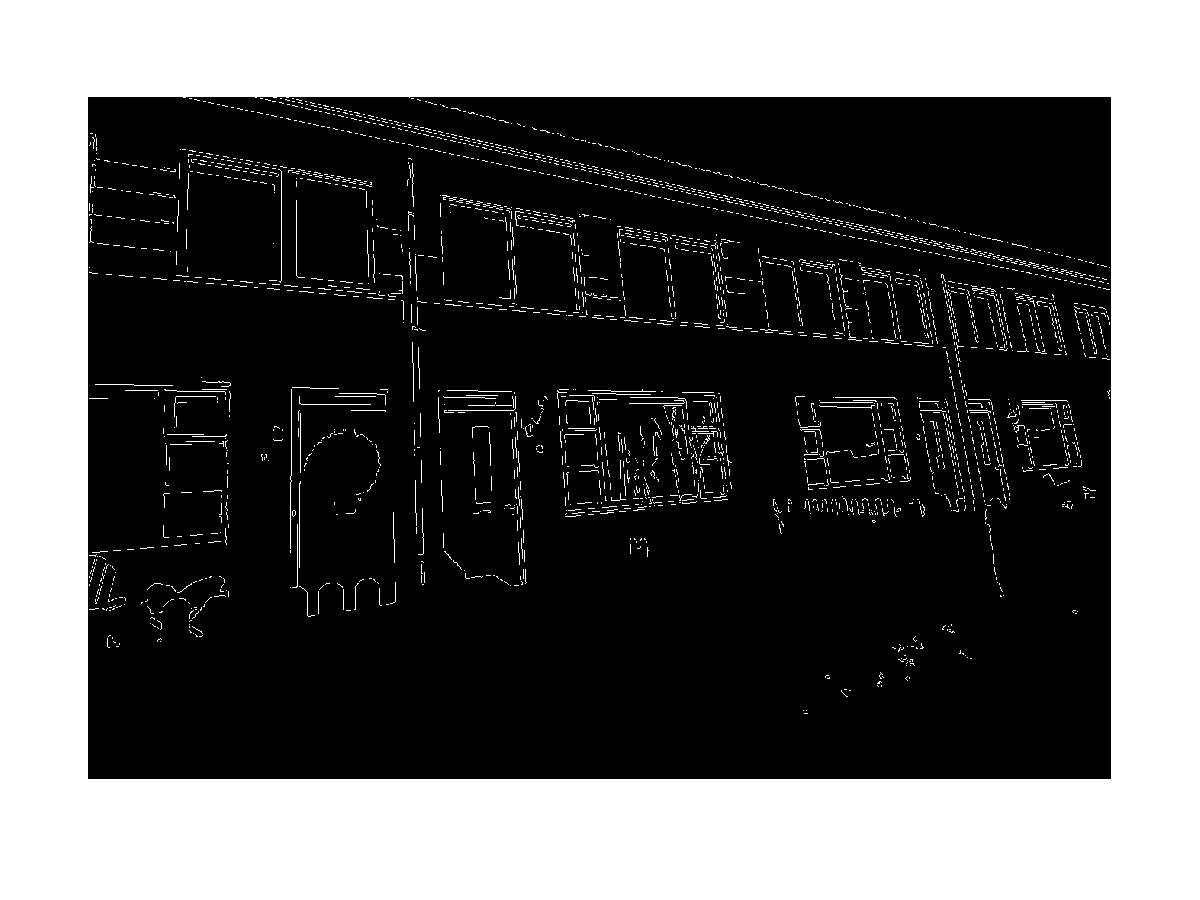
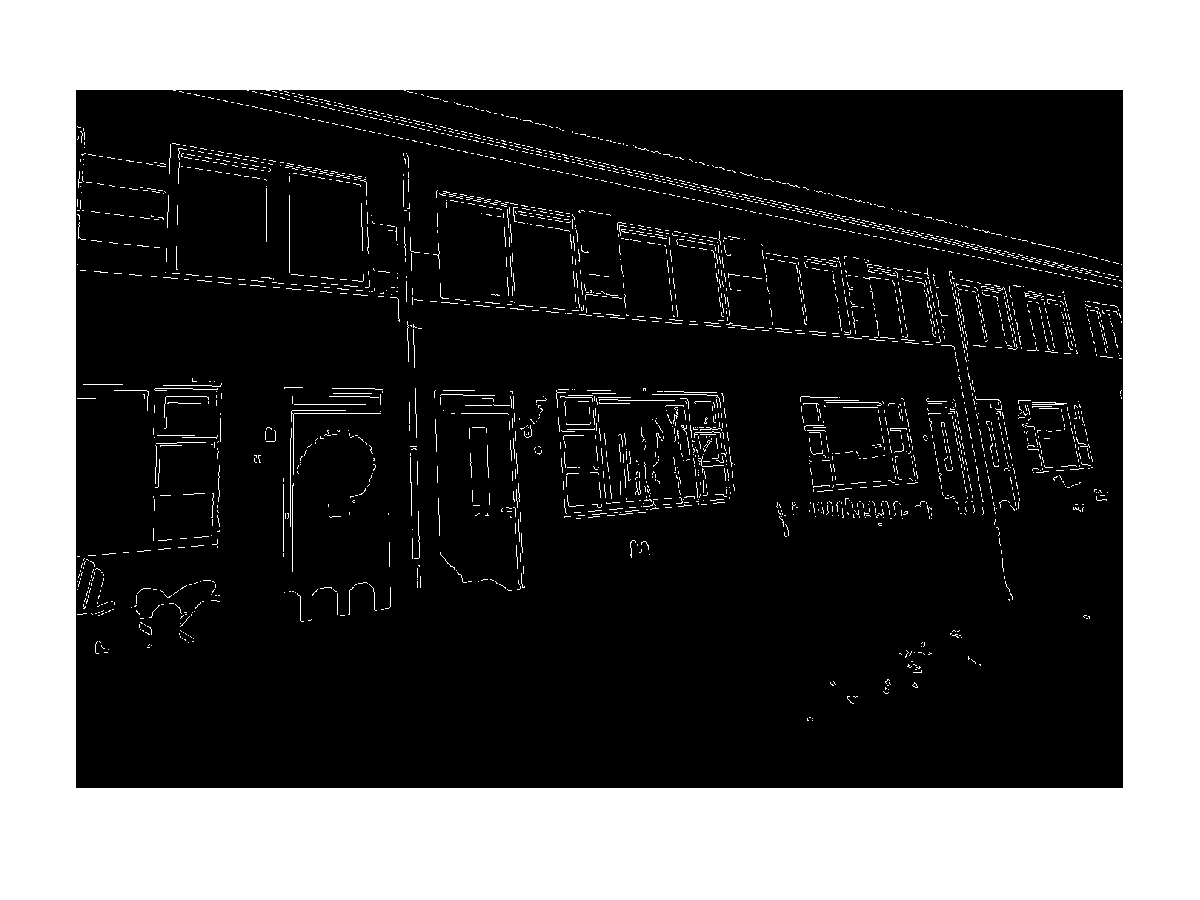
a

diff --git a/doorWindow/houghRect.m b/doorWindow/houghRect.m
@@ -30,16 +30,16 @@
 
 close all;
 tic;
-%imNr = 5447; file = sprintf('../dataset/FloriandeSet1/medium/undist__MG_%d.jpg', imNr);
-%load('XYangleFilter_floriande_5447.mat');
-%file = sprintf('../dataset/datasetSpil/datasetSpilRect/P_rect6.jpg')
-imNr = 6680; file = sprintf('../dataset/fullDatasets/aalsmeer/undist__MG_%d.jpg', imNr);
-load('XYangleFilter_aalsmeer6680.mat');
+imNr = 5435; file = sprintf('../dataset/FloriandeSet1/medium/undist__MG_%d.jpg', imNr); load('XYangleFilter_floriande_5447.mat');
+%imNr = 5447; file = sprintf('../dataset/FloriandeSet1/medium/undist__MG_%d.jpg', imNr); load('XYangleFilter_floriande_5447.mat');
+%imNR = 6; file = sprintf('../dataset/datasetSpil/datasetSpilRect/P_rect6.jpg')
+% imNr = 6680; file = sprintf('../dataset/fullDatasets/aalsmeer/undist__MG_%d.jpg', imNr); load('XYangleFilter_aalsmeer6680.mat');
 
 
 plotme							= 1;
 savePath 						= 'results/';
-fileShort 						= 'aalsmeer6680';
+%fileShort 						= 'aalsmeer6680';
+fileShort 						= 'floriande5435';
 colorModel						= 'HSV_Vchannel';
 %colorModel						= 'RGB';
 HSVmode							= true;
@@ -49,10 +49,10 @@ loadEdgeFromCache 				= false;
 %edgeDetectorParam.typePost 		= 'vertical_horizontal_Combined';
 edgeDetectorParam.typePost 		= '';
 %edgeDetectorParam.thresh		= 0.50;%0.45
-edgeDetectorParam.thresh		= 0.4;%0.45
+edgeDetectorParam.thresh		= 0.55;%0.45
 % perform different threshold test?
 edgeTest 						= 0;
-HoughParam.ThetaStretchAngle	= 20;
+HoughParam.ThetaStretchAngle	= 30;
 HoughParam.ThetaStart 			= 0;
 HoughParam.ThetaStart 			= HoughParam.ThetaStart - HoughParam.ThetaStretchAngle;
 HoughParam.ThetaEnd 			= 0;
@@ -67,7 +67,7 @@ HoughParam.fillGap 				= 10;
 
 % select smallest windowglas width from left to right
 %[Xwin,Ywin] = ginput(2); XYwin1 = [Xwin(1),Ywin(1)]; XYwin2 = [Xwin(2),Ywin(2)];norm(XYwin1,XYwin2)
-HoughParam.minLength 			= 40; 
+HoughParam.minLength 			= 45; 
 
 % todo transfer to sprintf 
 paramStr = ['src_',fileShort,'_colorModel_',colorModel,'__edgeDetectorParams_',edgeDetectorParam.type,edgeDetectorParam.typePost,'_thresh_',num2str(edgeDetectorParam.thresh),'__HoughParams_', 'thresh_',num2str(HoughParam.thresh) , '_nrPeaks_',num2str(HoughParam.nrPeaks) , '_fillGap_',num2str(HoughParam.fillGap) , '_minLength_',num2str(HoughParam.minLength),'__ThetaRange',num2str(HoughParam.ThetaStart),':',num2str(HoughParam.ThetaResolution),':',num2str(HoughParam.ThetaEnd),'.png'];
@@ -87,30 +87,16 @@ end
 h = size(imBW,1);
 
 
-%  % crop image by rectangle
-% TODO make this crop function in .m file
-%  h = size(imBW,1);
-%  w = size(imBW,2);
-%  % coords derived by rounding
-%  xCrop = [round(677.5000), round(885.5000)];
-%  yCrop = [round(169.5000), round(707.5000)];
-%  for y=1:h 
-%  	for x=1:w
-%  		% set values outside crop window to zero
-%  		if (y<yCrop(1) || y>yCrop(2)) || (x<xCrop(1) || x>xCrop(2))
-%  			imBW(y,x) = 0;
-%  		end
-%  	end
-%  end
-%  %figure; imshow(imBW)
-
+load('XYcropRegionFloriande5435.mat');
+imBW = cropImage(imBW, X,Y);
+figure; imshow(imBW)
 
 if edgeTest
 	for thresh=0.1:0.05:0.8
 		thresh
 		imEdge = im2double(edge(imBW, edgeDetectorParam.type, thresh));
 		figure(round(thresh*100));
-		imshow(imEdge)
+		imshow(imEdge);
 	end
 	error('edge test done, ending program')
 end
@@ -122,10 +108,8 @@ end
 fgEdge = figure();imshow(imEdge);
 
 
-imEdgeRot    = rot90(imEdge,-1);
-if plotme
-   fgHough = figure();imshow(imEdge);hold on
-end
+
+fgHough = figure();imshow(imEdge);hold on
 
 % HOUGHLINES:
 [H,Theta,Rho] = hough(imEdge,'Theta',HoughParam.ThetaStart:HoughParam.ThetaResolution:HoughParam.ThetaEnd);
@@ -140,13 +124,14 @@ for k = 1:length(Houghlines)
 end
 
 
-HoughParam.minLength 			= 30; 
 % HOUGHLINES ROTATED (HORIZONTAL):
-imEdge = imEdgeRot;
-[H,Theta,Rho] = hough(imEdge,'Theta',HoughParam.ThetaStart:HoughParam.ThetaResolution:HoughParam.ThetaEnd);
+if loadEdgeFromCache == false
+	imEdgeRot    = rot90(imEdge,-1);
+end
+[H,Theta,Rho] = hough(imEdgeRot,'Theta',HoughParam.ThetaStart:HoughParam.ThetaResolution:HoughParam.ThetaEnd);
 Peaks  = houghpeaks(H,HoughParam.nrPeaks,'threshold',ceil(HoughParam.thresh*max(H(:))));
 x = Theta(Peaks(:,2)); y = Rho(Peaks(:,1));
-Houghlines = houghlines(imEdge,Theta,Rho,Peaks,'FillGap',HoughParam.fillGap,'MinLength',HoughParam.minLength);
+Houghlines = houghlines(imEdgeRot,Theta,Rho,Peaks,'FillGap',HoughParam.fillGap,'MinLength',HoughParam.minLength);
 %Houghlines = addLengthToHoughlines(Houghlines);
 
 for k = 1:length(Houghlines)

diff --git a/doorWindow/cropImage.m b/doorWindow/cropImage.m
@@ -1,0 +1,12 @@
+function imBW = cropImage(imBW, xCrop, yCrop);
+% crop image by rectangle
+h = size(imBW,1);
+w = size(imBW,2);
+for y=1:h 
+	for x=1:w
+		% set values outside crop window to zero
+		if (y<yCrop(1) || y>yCrop(2)) || (x<xCrop(1) || x>xCrop(2))
+			imBW(y,x) = 0;
+		end
+	end
+end
